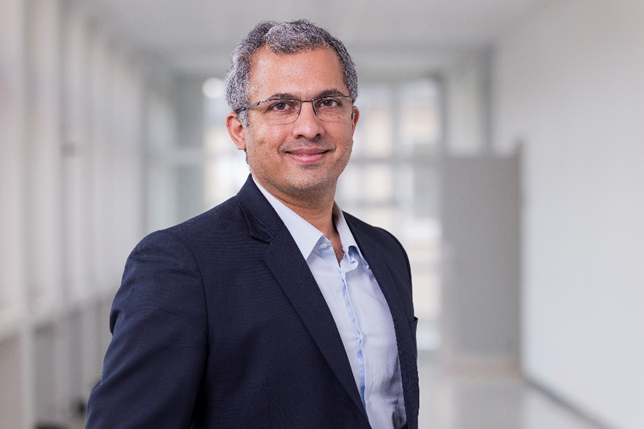
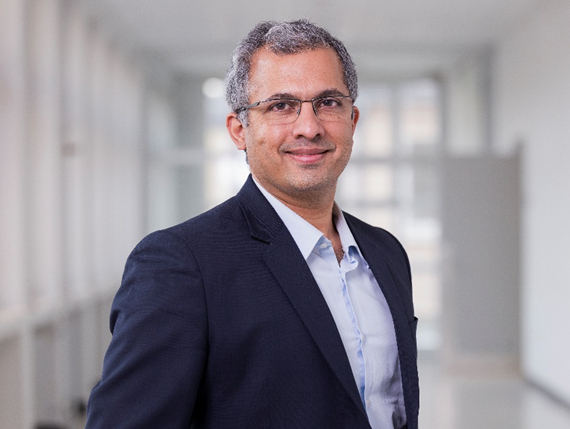
Vinod Rajamani speaker message added

diff --git a/components/SpeakerSlideshow.tsx b/components/SpeakerSlideshow.tsx
@@ -83,6 +83,16 @@ const speakers: SpeakerMessage[] = [
         I am very much looking forward to inspiring discussions, new connections, and perhaps the beginning of future undertakings.
       </span>
     ]
+  },
+  {
+    id: 4,
+    name: 'Prof. Dr.-Ing. Vinod Rajamani',
+    designation: 'Vice Dean Academics and Internationalisation',
+    institution: 'Mechanical Engineering, Fachhochschule Dortmund',
+    image: '/speakers/vinod.png',
+    paragraphs: [
+      <span key="4_1">This is the third year in succession that I am privileged to attend the CSITSS conference. FH Dortmund is honoured to have been once again invited by our{' '}<span className="text-cyan-300 font-semibold">strategic partner</span>, R.V. College of Engineering to be a co-organiser of this conference. CSITSS has established itself as a permanent anchor point in the calendars of academia and industry. This has been achieved through its{' '}<span className="text-violet-300 font-semibold">highly scientific presentations</span>, as well as the{' '}<span className="text-sky-300 font-semibold">immersive experience</span>{' '}that participants receive. It also deserves a special mention that a complete stream has been dedicated to{' '}<span className="text-cyan-300 font-semibold">sustainability</span>. The organisation of the conference is well thought through and efficient making the CSITSS a very professional and reputed conference. I wish all the participants a fantastic learning experience and hope many{' '}<span className="text-violet-300 font-semibold">new connections</span>{' '}are made between the participants.</span>
+    ]
   }
 ]
 
